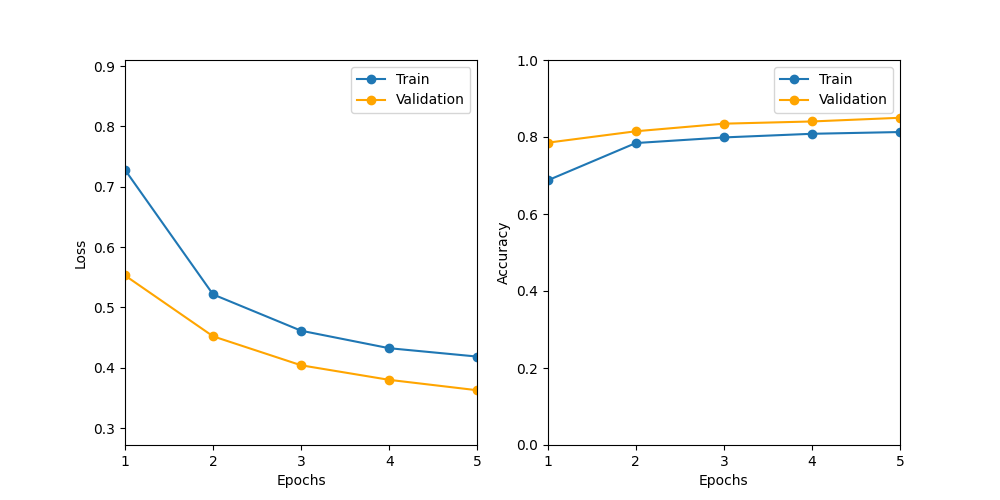
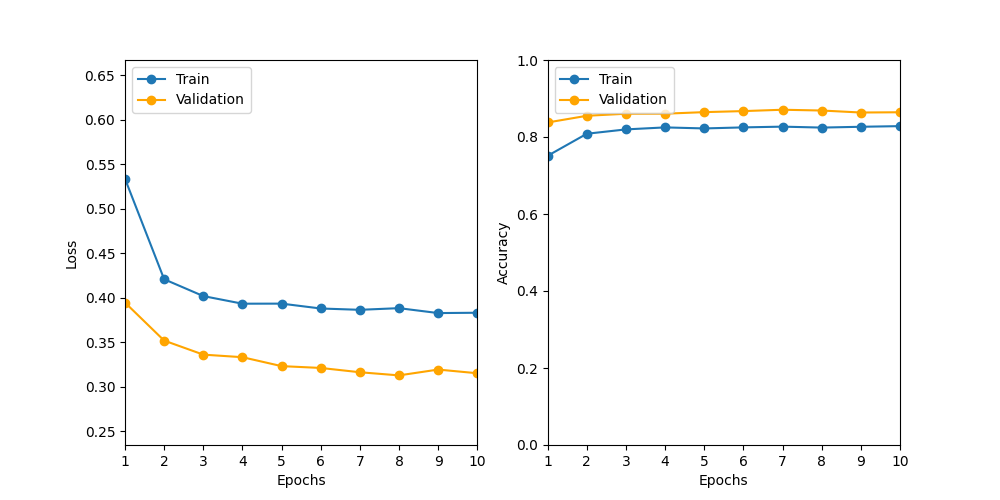
Tune BERT model

diff --git a/model-bert/main.py b/model-bert/main.py
@@ -19,9 +19,9 @@ def save_data_to_csv(data, path):
     f.close()
 
 LABELS_NUMBER = 2
-EPOCHS = 5
+EPOCHS = 10
 BATCH_SIZE = 32
-OPTIMIZER_LEARNING_RATE=5e-5
+OPTIMIZER_LEARNING_RATE=1e-4
 
 # Choose pretrained BERT model
 model_name = 'distilbert-base-uncased'
@@ -46,6 +46,37 @@ class DistilBertClassification(nn.Module):
         logits = self.linear2(x)
         return logits
 
+class LRScheduler():
+    """
+    Learning rate scheduler. If the validation loss does not decrease for the 
+    given number of `patience` epochs, then the learning rate will decrease by
+    by given `factor`.
+    """
+    def __init__(
+        self, optimizer, patience=2, min_lr=1e-6, factor=0.5
+    ):
+        """
+        new_lr = old_lr * factor
+        :param optimizer: the optimizer we are using
+        :param patience: how many epochs to wait before updating the lr
+        :param min_lr: least lr value to reduce to while updating
+        :param factor: factor by which the lr should be updated
+        """
+        self.optimizer = optimizer
+        self.patience = patience
+        self.min_lr = min_lr
+        self.factor = factor
+        self.lr_scheduler = torch.optim.lr_scheduler.ReduceLROnPlateau( 
+                self.optimizer,
+                mode='min',
+                patience=self.patience,
+                factor=self.factor,
+                min_lr=self.min_lr,
+                verbose=True
+            )
+    def __call__(self, val_loss):
+        self.lr_scheduler.step(val_loss)
+
 # Read data
 X_train, y_train = read_dataset("Data/train_data.csv")
 X_test, y_test = read_dataset("Data/test_data.csv")
@@ -64,6 +95,7 @@ for param in model.dbert.parameters():
 
 criterion = torch.nn.CrossEntropyLoss()
 optimizer = torch.optim.AdamW(model.parameters(), lr=OPTIMIZER_LEARNING_RATE)
+lr_scheduler = LRScheduler(optimizer)
 
 total_params = sum(p.numel() for p in model.parameters())
 total_params_trainable = sum(p.numel() for p in model.parameters() if p.requires_grad)
@@ -107,14 +139,14 @@ line_loss_val, = ax_loss.plot([], [], 'o-', color='orange')
 
 line_loss_train.set_label("Train")
 line_loss_val.set_label("Validation")
-ax_loss.legend()
+ax_loss.legend(loc='upper left')
 
 line_acc_train, = ax_acc.plot([], [], 'o-')
 line_acc_val, = ax_acc.plot([], [], 'o-', color='orange')
 
 line_acc_train.set_label("Train")
 line_acc_val.set_label("Validation")
-ax_acc.legend()
+ax_acc.legend(loc='upper left')
 
 plt.show()
 
@@ -169,6 +201,9 @@ for e in range(EPOCHS):
     history["train_accuracy"].append(train_accuracy)
     history["valid_accuracy"].append(valid_accuracy)
 
+    # Update learning rate
+    lr_scheduler(history["valid_loss"][-1])
+
     # Update plots
     ax_loss.set_ylim([min(min(history["valid_loss"], history["train_loss"])) * 0.75, max(max(history["valid_loss"], history["train_loss"])) * 1.25])
 
@@ -184,7 +219,7 @@ for e in range(EPOCHS):
 end_time = datetime.now()
 training_time = (end_time - start_time).total_seconds() / 60
 
-print(f'Validation accuracy: {history["valid_accuracy"][-1]} %')
+print(f'Validation accuracy: {history["valid_accuracy"][-1] * 100} %')
 print(f'Validation loss: {history["valid_loss"][-1]}')
 print(f'Training time: {training_time} min')
 
